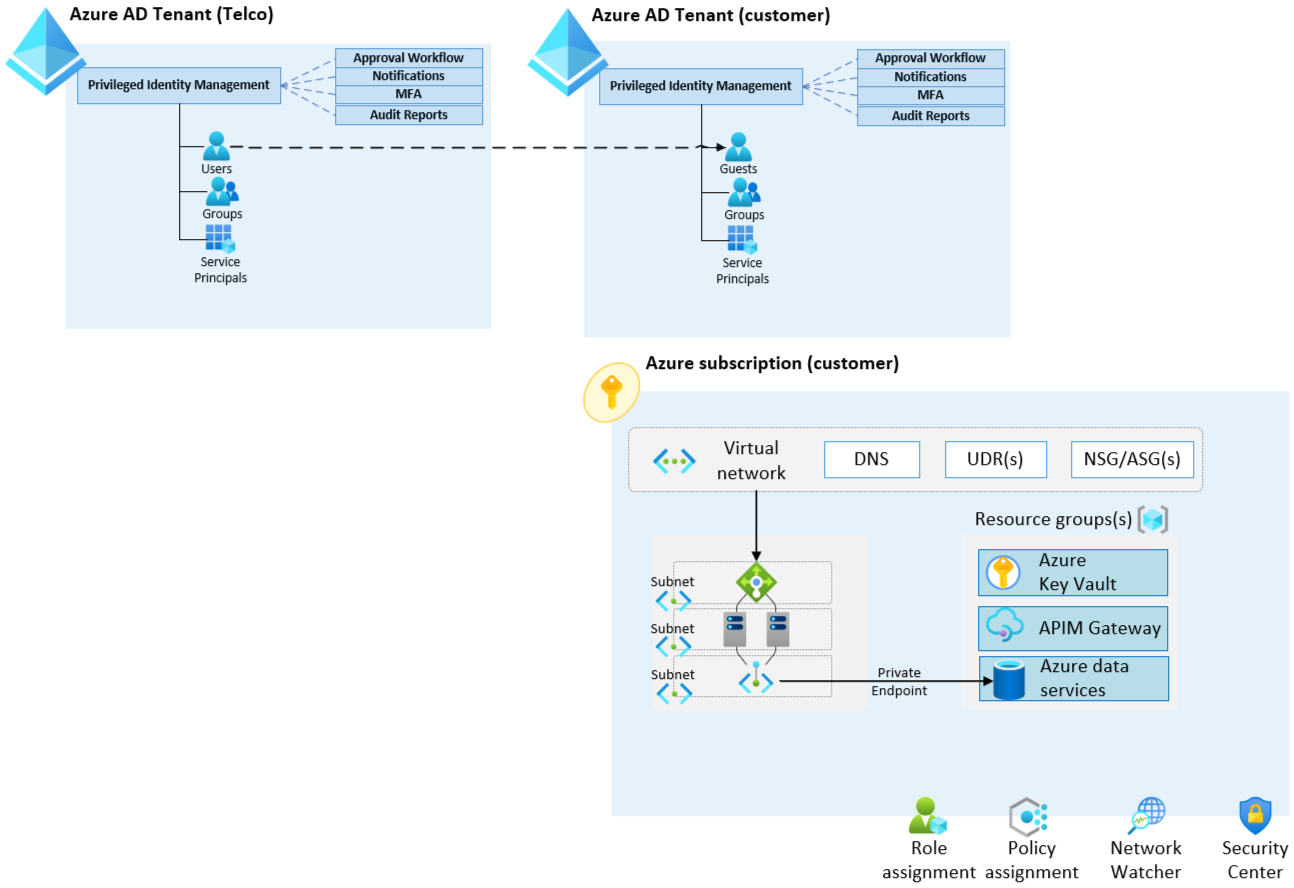
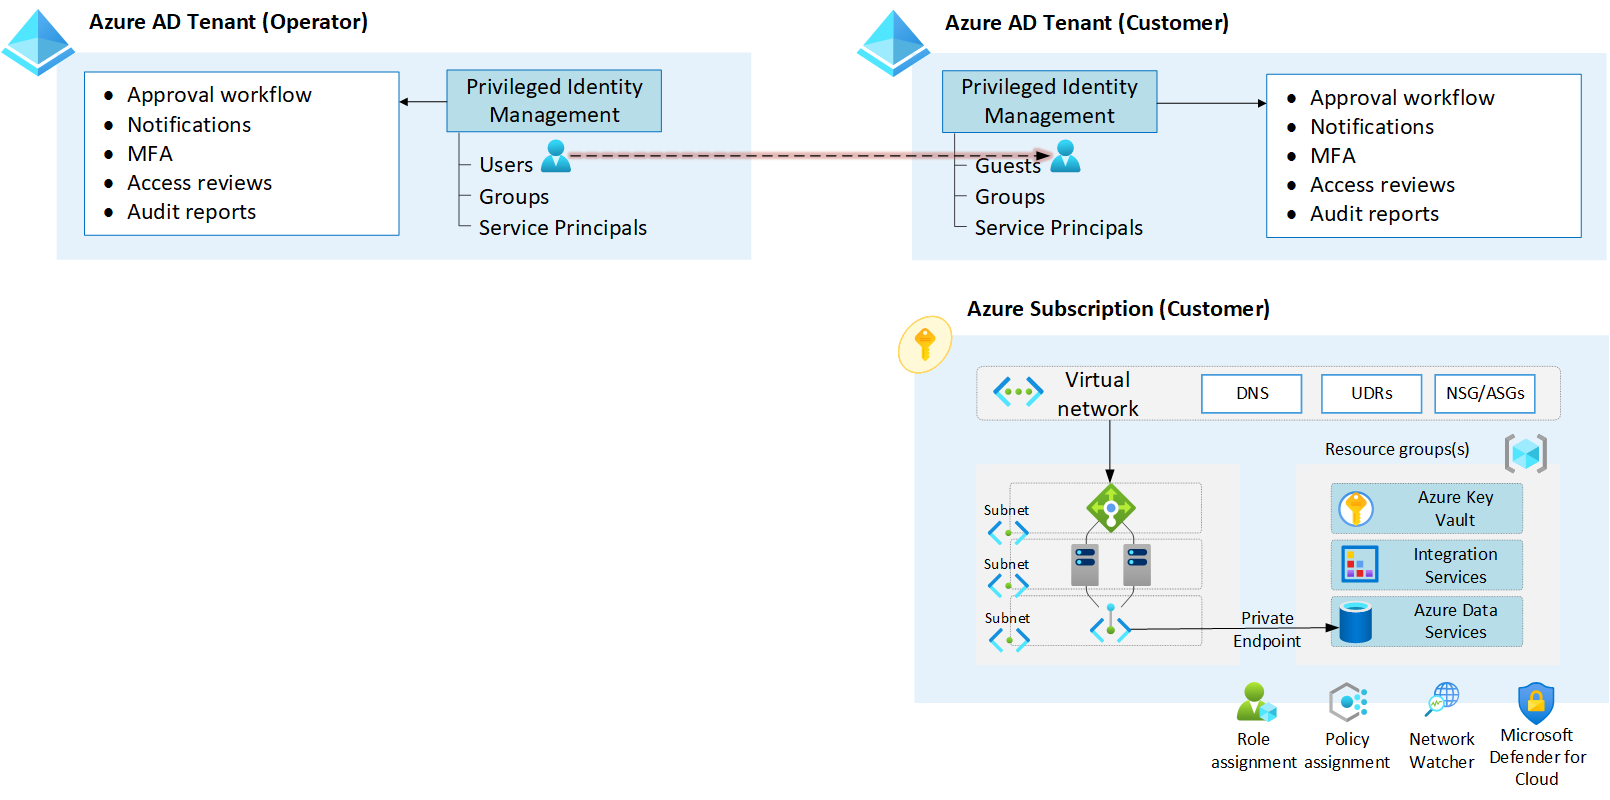
Operator services updates (#216)
* Operator services updates

* aad b2b

* lighthouse

* Managed App

diff --git a/telco/solutions/mgmtOptions/readme.md b/telco/solutions/mgmtOptions/readme.md
@@ -1,18 +1,18 @@
-# Telco Services
+# Operator Services
 
-Telcos who are running and hosting their Telco industry solutions on the Azure platform are commonly also managing and servicing other customers, whether it is in their own tenant, or in the customer's tenants.
+Operators who are running and hosting their solutions on the Azure platform are commonly also managing and servicing other customers, whether it is in their own tenant, or in the customer's tenants.
 
-This article enumerates the different methods a Telco on Azure can use in order to provide managed services or/and managed solutions to their customers, directly in the customer environments.
+This article enumerates the different methods an Operator can use on the Azure platform in order to provide managed services and/or managed solutions to their customers, directly in the customer environments.
 
 * [Azure Active Directory B2B](#azure-active-directory-b2b)
 * [Azure Lighthouse](#azure-lighthouse)
 * [Azure Managed Application](#azure-managed-application)
 
-The following table explains the available capabilities, their pros and cons in order to meet the above. Note that all of these capabilities can also be combined and one does not exclude the other.
+The following table describes the available capabilities, their pros and cons in order to meet the above. Note that all of these capabilities can also be combined and one does not exclude the other.
 
 | Service/capability | Description | Pros | Cons |
 |:-------------------------|:-------------|:-------------|------|
-| Azure AD B2B | Azure AD B2B allows customers to directly invite users (guest) accounts from the Telco AAD, and can grant them any permission to manage the tenant as a whole, including Azure resources. | No limitations in terms of what permission that can be granted in the customer tenant across Microsoft Clouds (Azure AD, Office 365, Power Platform, Dynamics). | Requires explicit, manual onboarding from a customer perspective per user. Challenges for the service provider (telco) when they are managing multiple tenants as tenant context must be set explicitly prior to any operation for all clients. Co-admin scenario by design for the customer and the service provider, which can make it hard to have clear separation of duties.
+| Azure AD B2B | Azure AD B2B allows customers to directly invite users (guest) accounts from the Operator Azure AD, and can grant them any permission to manage the tenant as a whole, including Azure resources. | No limitations in terms of what permission that can be granted in the customer tenant across Microsoft Clouds (Azure AD, Office 365, Power Platform, Dynamics). | Requires explicit, manual onboarding from a customer perspective per user. Challenges for the service provider (operator) when they are managing multiple tenants as tenant context must be set explicitly prior to any operation for all clients. Co-admin scenario by design for the customer and the service provider, which can make it hard to have clear separation of duties.
 | Azure Lighthouse | Enables a cross-tenant RBAC assignment so that service providers can manage the customer scopes that are delegated (subscription or resource groups) directly from within their tenant using a single token.  |Optimized for service providers to perform at-scale operations across multiple Azure tenants. Allows service providers to host and secure their intellectual properties in their own subscriptions. Interoperability across tenants from an Azure control plane perspective. Customer is in charge of the access scope given. | Owner RBAC is not supported, so several high privileged operations cannot be executed by the service provider. Limited to Azure ARM only (no Azure AD, Office 365, or Power Platform manageability). Co-admin scenario by design for the customer and the service provider, which can make it hard to have clear separation of duties.
 | Azure Managed Application | Enables service providers and ISVs to publish their solutions into Azure marketplace offerings, where customer deploys into their subscription and the actual Azure resources are projected back to the service provider tenant (cross tenant RBAC assignment) for them to operate on-behalf-of the customers. | Optimized for ISVs/service providers to perform at-scale operations across multiple Azure tenants. Allow ISVs/service providers to host and secure their intellectual properties in their own subscriptions. Interoperability across tenants from an Azure control plane perspective. Service provider can determine the RBAC they need on the managed resource group themselves. Clear separation of duties as the managed resource group in the customer subscription is locked, preventing the customer to potentially cause service disruption. | Permission for ISVs/services are limited to the managed resource group only |
 
@@ -20,9 +20,10 @@ The following table explains the available capabilities, their pros and cons in 
 
 Azure Active Directory (Azure AD) business-to-business (B2B) collaboration is a feature within External Identities that lets you invite guest users to collaborate with your organization. With B2B collaboration, you can securely share your company's applications and services with guest users from any other organization, while maintaining control over your own corporate data.
 
-The diagram below shows that users originating from the Telco Azure Active Directory are invited and projected into the customer's Azure Active Directory. Once the users are added to the customer directory, they can be assigned any Azure AD, Azure, Power Platform, or Microsoft365 role assignment.
+The diagram below shows that users originating from the Operator Azure AD are invited and projected into the customer's Azure AD. Once the users are added to the customer directory, they can be assigned any Azure AD, Azure, Power Platform, or Microsoft365 role assignment.
 
 ![b2b](./images/b2b.png)
+_Figure 1: Azure Active Directoy B2B._
 
 ### Design considerations
 
@@ -45,49 +46,51 @@ The diagram below shows that users originating from the Telco Azure Active Direc
 
 Azure Lighthouse is primarily a capability for enterprises with Azure subscriptions spread across multiple Azure AD tenants, as well as for service providers to manage multiple Azure subscriptions across multiple customer Azure AD tenants.
 
-The following picture depicts how the cross-tenant RBAC authorization works, granting principal IDs from the remote Azure AD tenant permissions directly on a subscription or a resource group in a customer tenant.
+Figure 2 below depicts how the cross-tenant RBAC authorization works, granting principal IDs from the remote Azure AD tenant permissions directly on a subscription or a resource group in a customer tenant.
 
 ![lighthouse](./images/lighthouse.png)
+_Figure 2: Azure Lighthouse._
 
-For Telco's considering Azure Lighthouse to manage and operate their customers directly in their Azure subscription(s), the following considerations and recommendations are provided.
+For Operator's considering Azure Lighthouse to manage and operate their customers directly in their Azure subscription(s), the following considerations and recommendations are provided.
 
 ### Design considerations
 
-* Principal IDs in the Telco tenant can only be associated with Azure built-in RBAC, and the highest privilege that can be used is *Contributor*.
-* Azure AD Privileged Identity Management can be leveraged on the Telco Azure AD tenant, providing additional security confirmation to their customers that users are subject to just-in-time access, access reviews, approval process, multi-factor authentication and more.
+* Principal IDs in the Operators tenant can only be associated with Azure built-in RBAC, and the highest privilege that can be used is *Contributor*.
+* Azure AD Privileged Identity Management can be leveraged on the Operator Azure AD tenant, providing additional security confirmation to their customers that users are subject to just-in-time access, access reviews, approval process, multi-factor authentication and more.
 * All *write* operations (create, update, and delete) in the customer subscription(s) is transparent for both parties in the Azure Activity log.
-* Customers can at any point in time remove the permissions given to users from the Telco Azure AD.
-* When a customer grants access (via onboarding of the Telco), an event is written to the Telco's directory (tenant) activity log. The same happens when permission is revoked.
-* Onboarding of a Telco managed service provider can only be done using an Azure Resource Manager template in the customer subscription.
-* Telco's can provide their onboarding Azure Resource Manager template directly to customers, or publish their offerings into Azure Marketplace.
+* Customers can at any point in time remove the permissions given to users from the Operators Azure AD.
+* When a customer grants access (via onboarding of the Operator), an event is written to the Operator's directory (tenant) activity log. The same happens when permission is revoked.
+* Onboarding of an Operator managed service provider can only be done using an Azure Resource Manager template in the customer subscription.
+* Operator's can provide their onboarding Azure Resource Manager template directly to customers, or publish their offerings into Azure Marketplace.
 
 ### Design recommendations
 
-* When using Azure Lighthouse as a Telco managed service provider, ensure you have a good CI/CD approach to maintain and publish the Azure Resource Manager template(s) that are used for customer onboarding.
-* If required by the customer, use Azure AD PIM enabled in the Telco's Azure AD tenant to provide additional, enterprise security capabilities when accessing customer resources.
-* Enable a notification workflow to monitor when new customers are either onboarding to the Telco managed service provider, or are revoking access.
-* Use one or more dedicated subscriptions in the Telco tenant to host and run the requisite management services/tools to operate across multiple customer tenants.
+* When using Azure Lighthouse as an Operator managed service provider, ensure you have a good CI/CD approach to maintain and publish the Azure Resource Manager template(s) that are used for customer onboarding.
+* If required by the customer, use Azure AD PIM enabled in the Operator's Azure AD tenant to provide additional, enterprise security capabilities when accessing customer resources.
+* Enable a notification workflow to monitor when new customers are either onboarding to the Operator managed service provider, or are revoking access.
+* Use one or more dedicated subscriptions in the Operator tenant to host and run the requisite management services/tools to operate across multiple customer tenants.
 * Ensure you have an Azure AD group present in the Azure Resource Manager template that is mapped to the *Managed Services Registration assignment Delete Role*, so you can opt-out from a customer if it's required.
-* Use Azure AD Groups to organize the various personas and access requirements needed to operate the customers, so clear separation of duties from the Telco tenant is established.
-* For updates required to the authorization needed for the Telco identities, the customer must re-deploy the Azure Resource Manager template with the changes for it to be reflected back to the Telco tenant.
+* Use Azure AD Groups to organize the various personas and access requirements needed to operate the customers, so clear separation of duties from the Operator tenant is established.
+* For updates required to the authorization needed for the Operator identities, the customer must re-deploy the Azure Resource Manager template with the changes for it to be reflected back to the Operator tenant.
 
 ## Azure Managed Application
 
 Azure Managed Application is a capability for ISVs and service providers to deliver turn-key applications to Azure customers directly from the Azure marketplace. Customers deploy via self-service, and once provisioned, the ISV/service provider will have cross-tenant RBAC permission on the *managed resource group*, which contains all the required infrastructure for the services they are delivering, that customers can use and integrate with other Azure services they may have.
 
-The following picture depicts how the Managed Application construct works, and the cross-tenant RBAC authorization at the managed resource group scope, granting principal IDs from the remote Azure AD tenant permissions directly on the managed resource group in a customer tenant's Azure subscription.
+Figure 3 depicts how the Managed Application construct works, and the cross-tenant RBAC authorization at the managed resource group scope, granting principal IDs from the remote Azure AD tenant permissions directly on the managed resource group in a customer tenant's Azure subscription.
 
 ![managedapp](./images/managedapp.png)
+_Figure 3: Azure Managed Application._
 
-For Telco's considering Azure Managed Application as a way to package, distribute, and operate their solutions, we provide the following design considerations and recommendations.
+For Operators considering Azure Managed Application as a way to package, distribute, and operate their solutions, we provide the following design considerations and recommendations.
 
 ### Design considerations
 
 * Managed Application requires Azure Resource Manager template(s) and a User Interface definition, that must be versioned and published to the Azure Marketplace via [Partner Center](https://partner.microsoft.com/dashboard/home).
-* Azure AD Privileged Identity Management can be used on the *customer's* Azure AD tenant where they can approve just-in-time authorization requests by the Telco operators.
+* Azure AD Privileged Identity Management can be used on the *customer's* Azure AD tenant where they can approve just-in-time authorization requests by the telco operators.
 * You can enable any customer subscription to purchase and deploy your Managed Application, or you can enable this per subscription(s) manually.
 * When customer is deploying a Managed Application, they will see two resource groups where the managed resource group cannot be altered by the customer.
-* Due to how the managed resource group is being locked (using deny assignment), only the Telco can access, create, and change the Azure resources within.
+* Due to how the managed resource group is being locked (using deny assignment), only the Operator can access, create, and change the Azure resources within.
 * When publishing a Managed Application, you must provide the users/groups/service principals from your Azure Active Directory who will operate the Managed Application in the customer subscriptions, and map towards built-in role-based access controls in Azure.
 * Managed Applications can connect to your customer relationship management (CRM) system, such as Dynamics 365 Customer Engagement, HTTPS endpoint, Salesforce and more, so you can receive customer contact information when a customer deploys your product.
 * When a customer deletes the Managed Application object, the managed resource group will then also be deleted.
@@ -95,13 +98,13 @@ For Telco's considering Azure Managed Application as a way to package, distribut
 ### Design recommendations
 
 * Establish a CI/CD pipeline and process and treat all artifacts of your Managed Application as infrastructure as code.
-* Allow customers to leverage Azure AD Privileged Identity Management in their Azure AD directory to approve/reject just-in-time authorization requests by your Telco operators.
+* Allow customers to leverage Azure AD Privileged Identity Management in their Azure AD directory to approve/reject just-in-time authorization requests by the Telco operators.
 * Ensure the resource types (Azure services) you have for the application composition can be deployed in the regions that you allow for.
 * Prepare and configure integration with your customer relationship management system so you can track - and provide proactive customer services when your Managed Application is deployed by customers.
 * Allow the customer to provide tags to the resources created during the Managed Application deployment so they can organize, and query resources using Azure Resource Manager.
-* Ensure *Security Reader* built-in role is mapped to your Azure AD Group/user in order to monitor security risks when the customer is using Microsoft Defender for Cloud on the subscription(s)
+* Ensure *Security Reader* built-in role is mapped to your Azure AD Group/user in order to monitor security risks when the customer is using Microsoft Defender for Cloud on the subscription(s).
 * Bring your own storage account when you need encryption using your own keys.
-* Use Azure Virtual Network Service Tags to define network access controls on network security groups or Azure Firewall configured for your Managed Application resources
+* Use Azure Virtual Network Service Tags to define network access controls on network security groups or Azure Firewall configured for your Managed Application resources.
 
 ---
 
